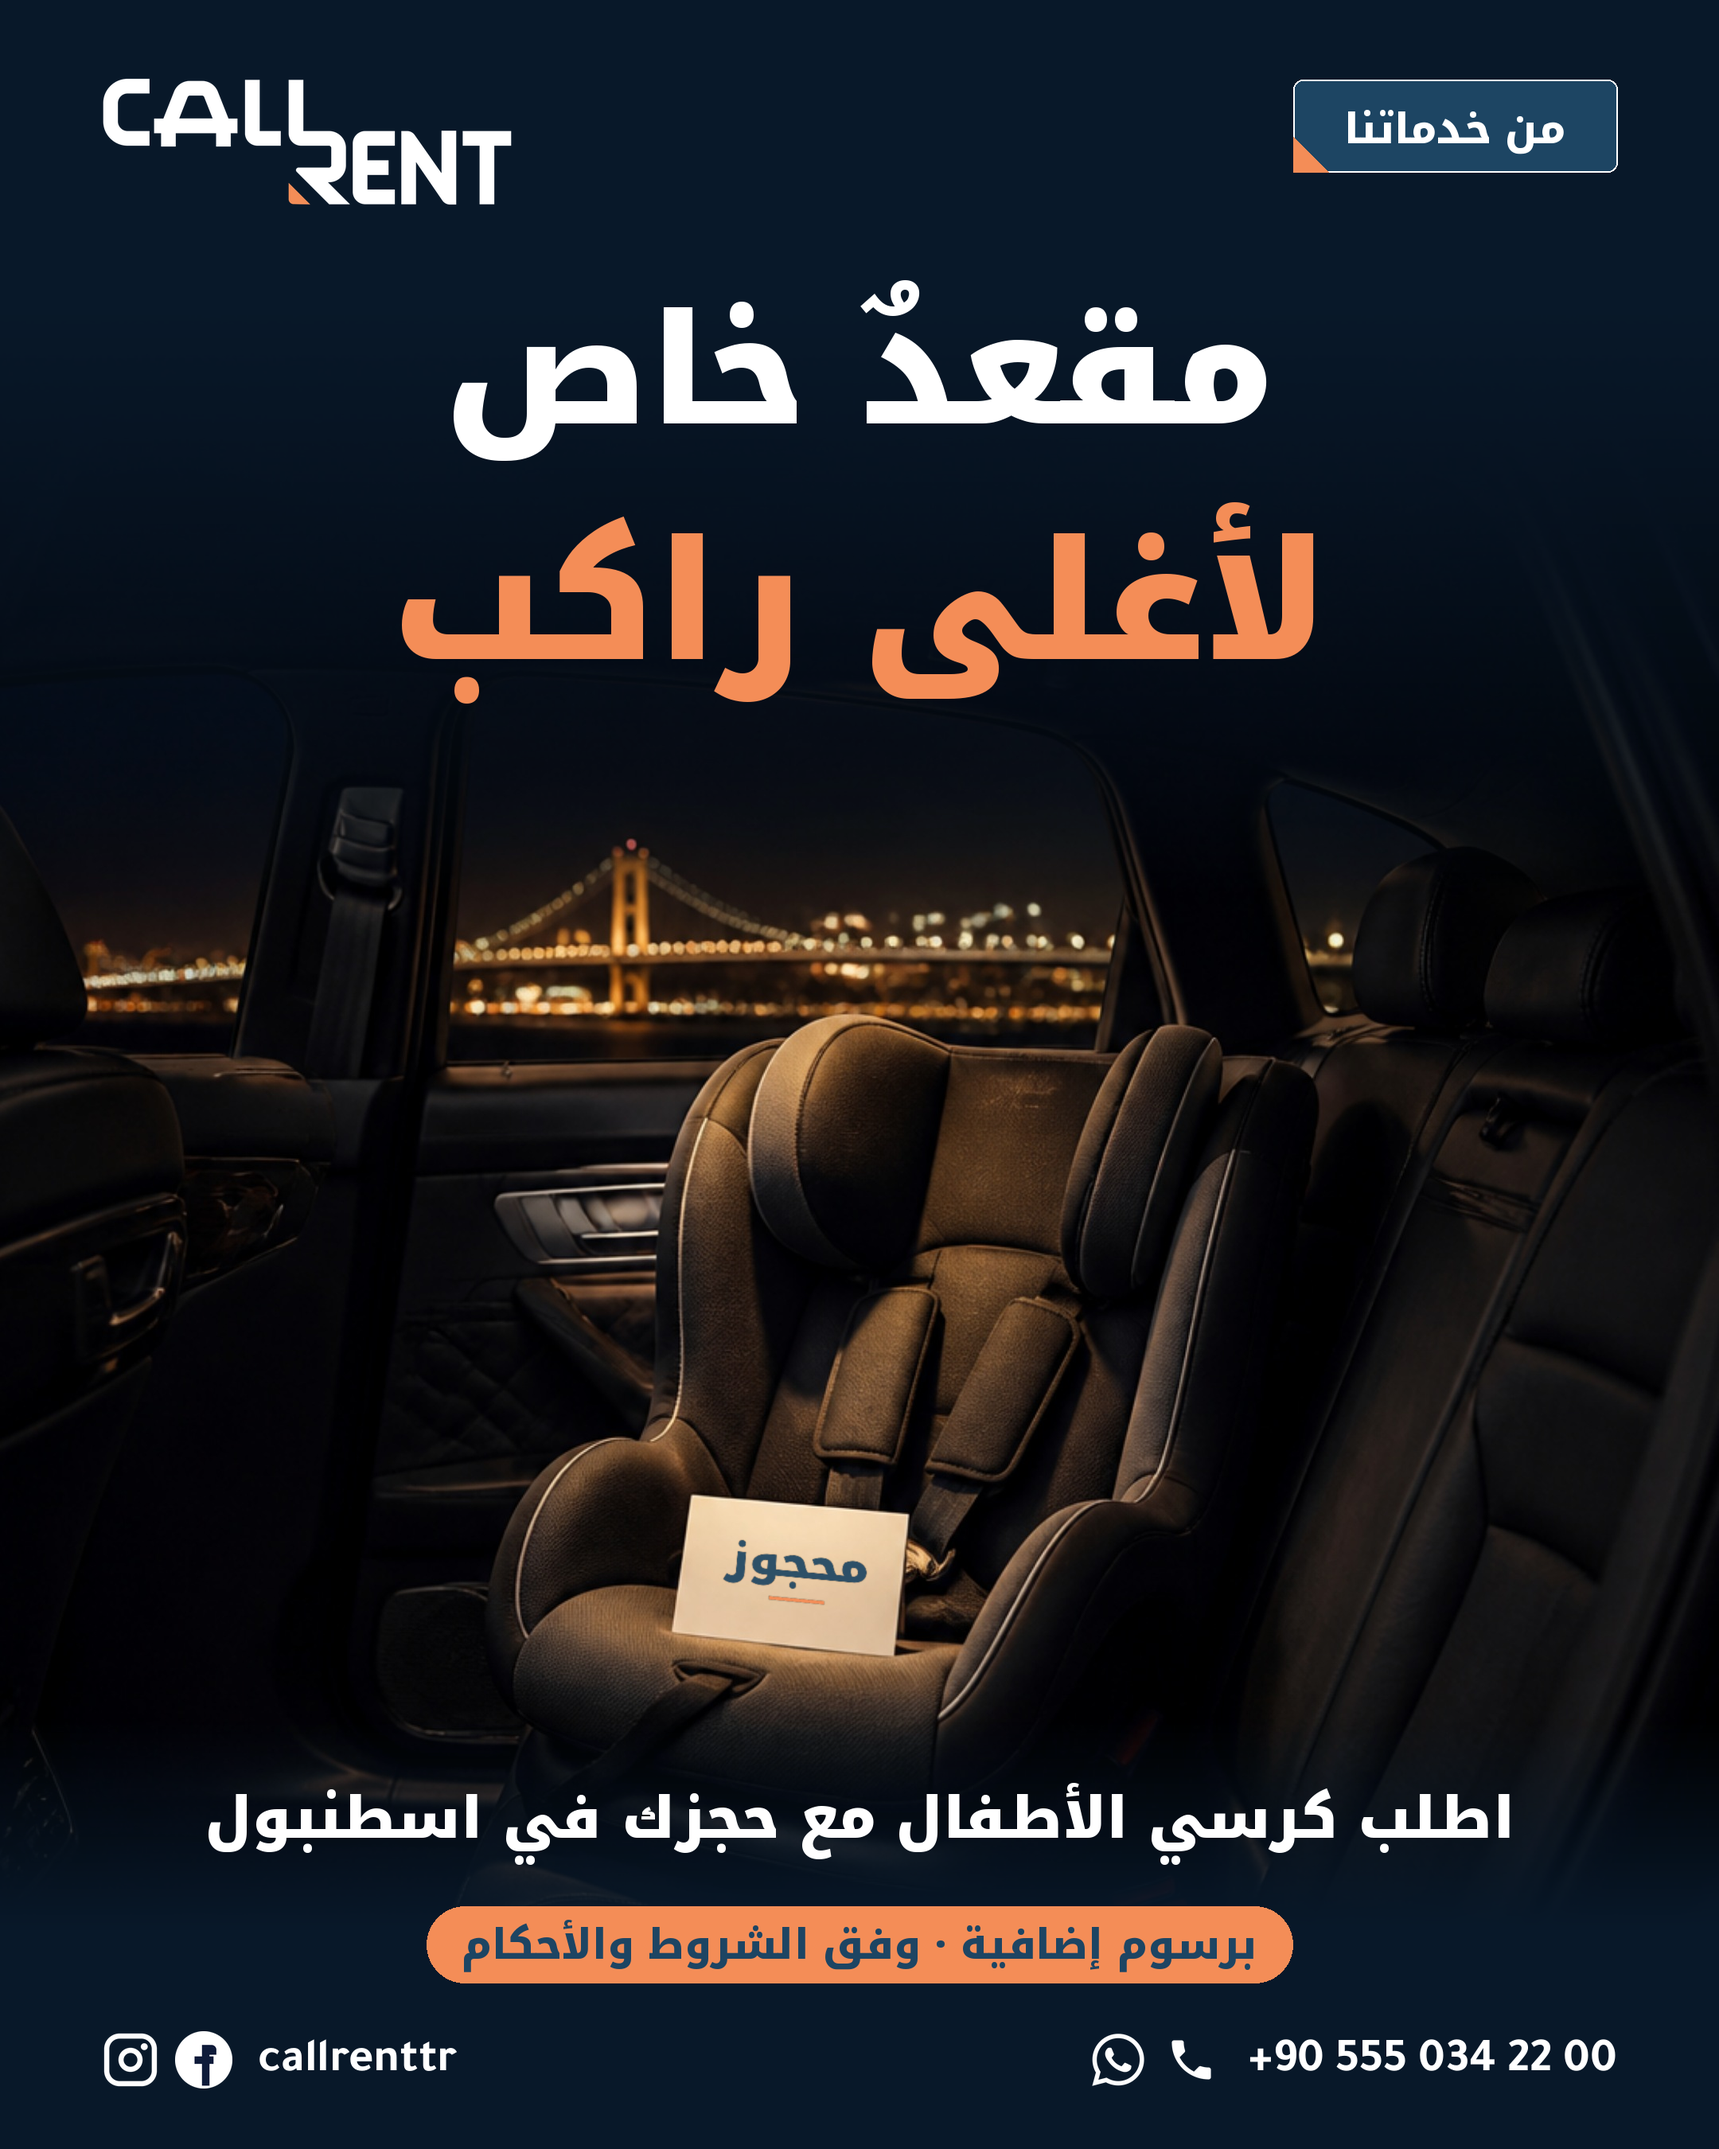
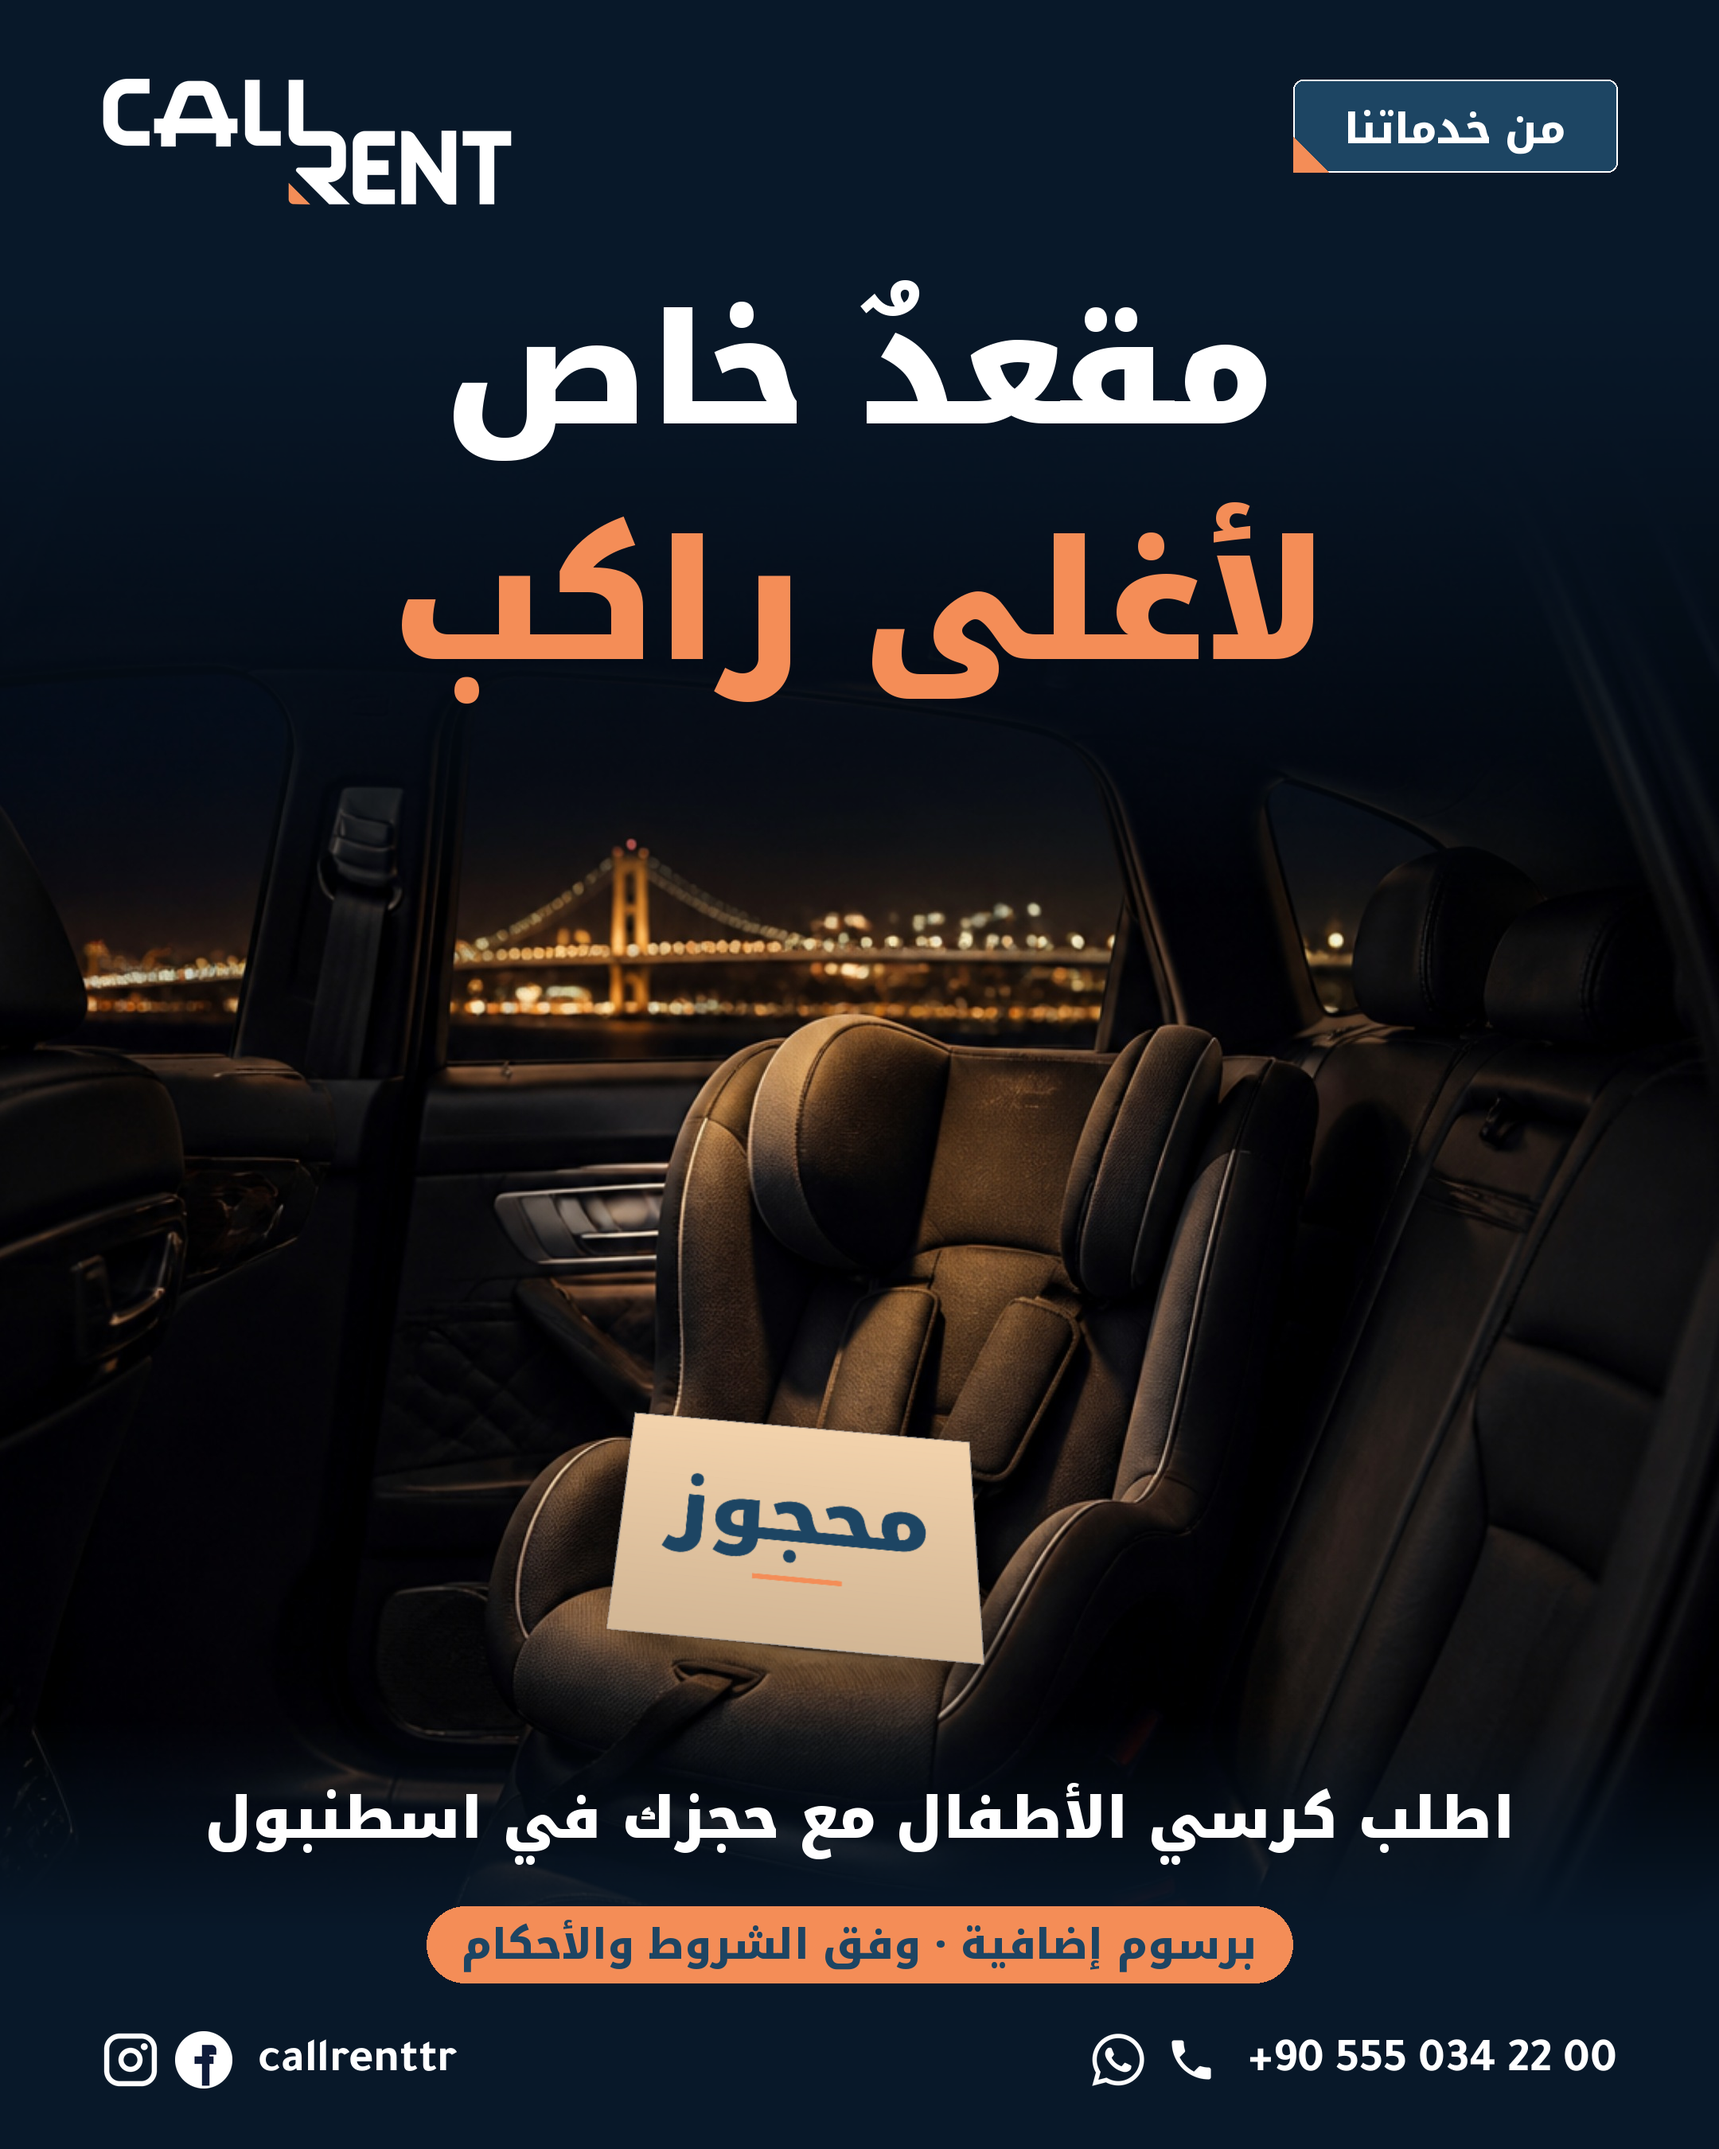
Child seat post: larger reserved card and text
Claude-Session: https://claude.ai/code/session_01JWxxZZBXcuDznNNTjM86b7

Changed region(s): [[0.3412, 0.6533, 0.5894, 0.8089]]

diff --git a/marketing/posts/carseat_vip.py b/marketing/posts/carseat_vip.py
@@ -2,7 +2,7 @@
 
 usage: python3 carseat_vip.py <brand-kit dir> <out.png>
 Background: Canva (carseat-vip-scene.jpg): child seat in a dark cabin, Bosphorus Bridge lights through the window,
-a blank place card on the cushion. «محجوز» is set flat and warped onto the card's measured corners.
+a blank place card on the cushion. A larger card with «محجوز» is drawn flat and warped over it.
 Vertical positions come from measured ink extents with at least 24 units clear between neighbours.
 """
 import sys, os
@@ -40,16 +40,31 @@ def perspective_coeffs(dst, src):
 
 cv = Image.open(os.path.join(HERE, 'carseat-vip-scene.jpg')).convert('RGBA').resize((W, H), Image.LANCZOS)
 
-# «محجوز» on the place card: drawn flat, then warped onto the card's corners (full-res pixels)
-quad = [(869, 1879), (1141, 1903), (1153, 2084), (846, 2055)]          # TL, TR, BR, BL
-cw, ch = 600, 400
+# «محجوز» on a larger place card: the photo's card corners, scaled up about its base so it still stands on the
+# cushion and covers the original; the card is drawn flat (paper tone, edge, text) and warped onto that quad
+quad0 = [(869, 1879), (1141, 1903), (1153, 2084), (846, 2055)]          # TL, TR, BR, BL of the photo's card
+SC = 1.55
+bxm, bym = (quad0[2][0] + quad0[3][0])/2, (quad0[2][1] + quad0[3][1])/2  # base midpoint stays put
+quad = [(bxm + (x - bxm)*SC, bym + (y - bym)*SC) for x, y in quad0]
+arr = np.asarray(cv.convert('RGB')).astype(np.float32)
+paper = tuple(int(v) for v in arr[1950:2010, 960:1040].reshape(-1, 3).mean(0))
+cw, ch = 900, 600
 flat = Image.new('RGBA', (cw, ch), (0, 0, 0, 0)); fd = ImageDraw.Draw(flat)
-fcard = F(AR_BLACK, 118); up, dn = ink('محجوز', fcard)
-base = (ch - (up + dn))//2 + up - 14
-fd.text((cw/2, base), 'محجوز', font=fcard, fill=N+(235,), anchor='ms', direction='rtl', language='ar')
-fd.rectangle((cw/2 - 70, base + dn + 26, cw/2 + 70, base + dn + 34), fill=O+(255,))
-warp = flat.transform((W, H), Image.PERSPECTIVE, perspective_coeffs(quad, [(0, 0), (cw, 0), (cw, ch), (0, ch)]), Image.BICUBIC)
+g = np.linspace(1.04, 0.90, ch)[:, None, None]                          # warm light from above, a touch darker at the base
+card = np.clip(np.array(paper, np.float32)[None, None, :]*g, 0, 255).repeat(cw, 1)
+flat.paste(Image.fromarray(card.astype(np.uint8)), (0, 0))
+fd.rectangle((0, 0, cw-1, ch-1), outline=(255, 255, 255, 120), width=3)
+fcard = F(AR_BLACK, 210); up, dn = ink('محجوز', fcard)
+base = (ch - (up + dn))//2 + up - 22
+fd.text((cw/2, base), 'محجوز', font=fcard, fill=N+(255,), anchor='ms', direction='rtl', language='ar')
+fd.rectangle((cw/2 - 110, base + dn + 36, cw/2 + 110, base + dn + 48), fill=O+(255,))
+src = [(0, 0), (cw, 0), (cw, ch), (0, ch)]
+sh = Image.new('RGBA', (W, H), (0, 0, 0, 0))                            # soft shadow behind the card
+ImageDraw.Draw(sh).polygon([(x + 22, y + 26) for x, y in quad], fill=(0, 0, 0, 150))
+cv.alpha_composite(sh.filter(ImageFilter.GaussianBlur(26)))
+warp = flat.transform((W, H), Image.PERSPECTIVE, perspective_coeffs(quad, src), Image.BICUBIC)
 cv.alpha_composite(warp.filter(ImageFilter.GaussianBlur(0.6)))
+print('card top', round(min(y for _, y in quad)/K), 'bottom', round(max(y for _, y in quad)/K))
 
 # darken the cabin roof for the headline and the floor for the info line
 shade(cv, lambda y: ((560 - y)/300)**0.8*0.85, DEEP)
